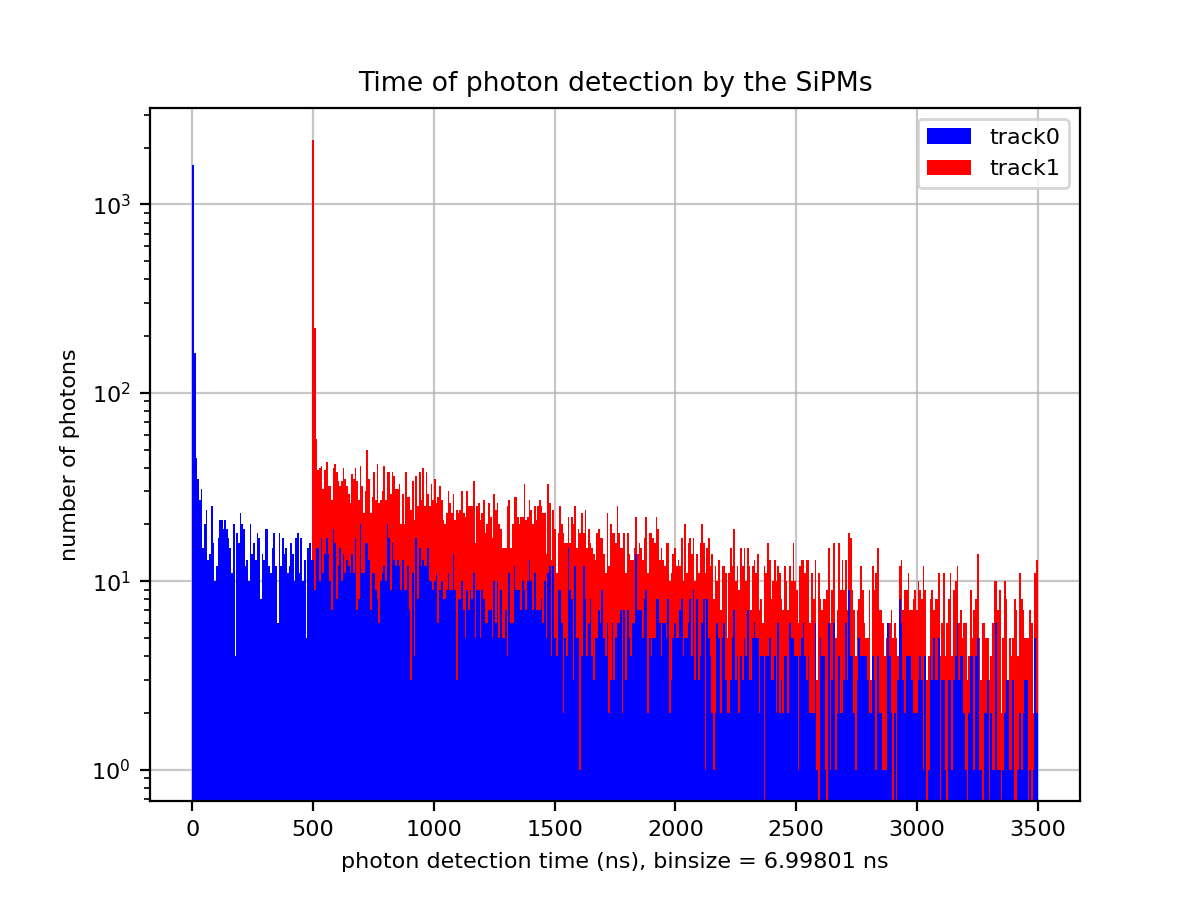
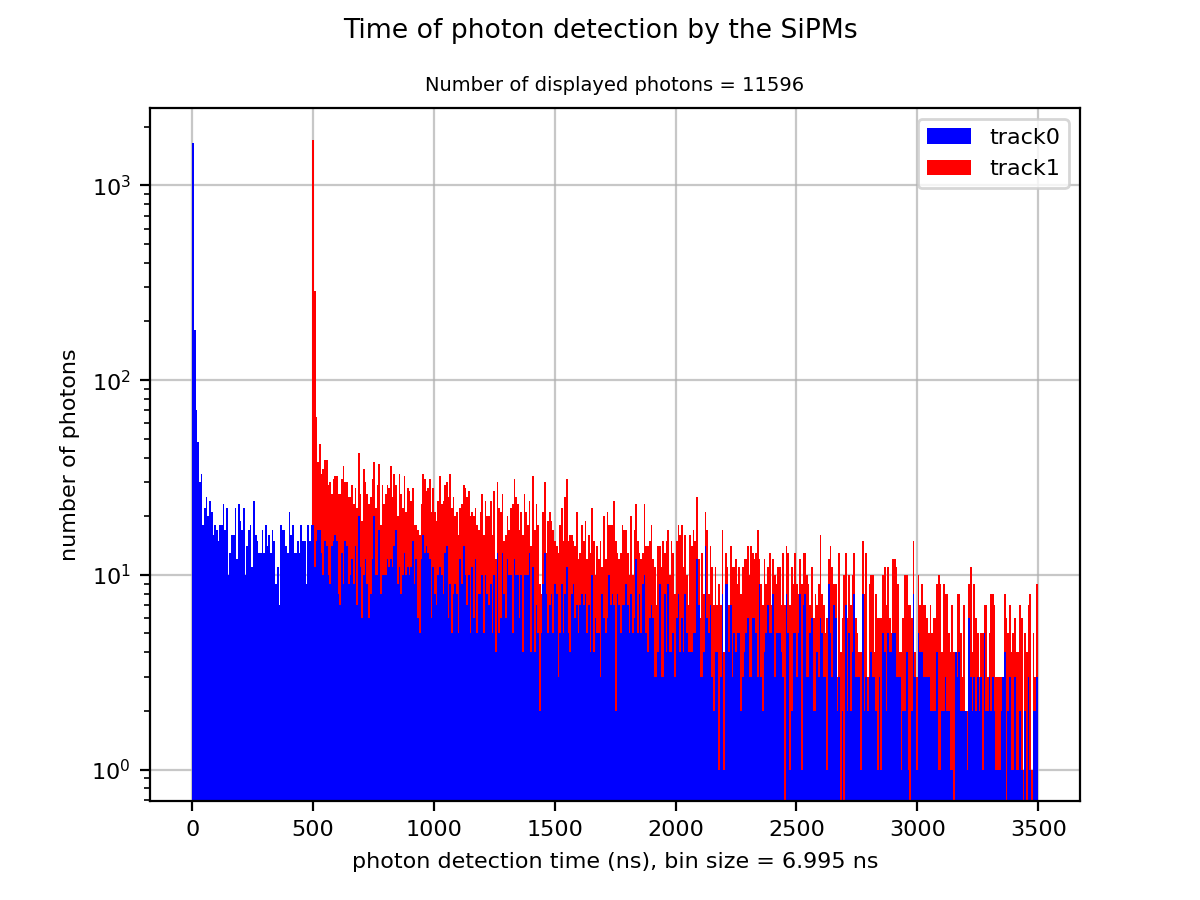
Add comment and additional outputs for timeplotter

diff --git a/TimePlotter.py b/TimePlotter.py
@@ -13,14 +13,17 @@ photonDex = 0
 numTracks = signals['trackorigins'][-1]
 numSignals = len(signals['photon'][0])
 histArray = []
-for i in range(numTracks+1):
-    tempArray = np.array([])
+numIncluded = 0
+for i in range(numTracks+1):     # Organize the data into an ndarray based on tracks
+    tempArray = np.array([])     # so it can be colored differently
     while photonDex < numSignals and signals['trackorigins'][photonDex] == i:
         if signals['time'][0][photonDex] <= pltLimit:
             tempArray = np.append(tempArray, signals['time'][0][photonDex]*1e9)
         photonDex += 1
     histArray.append(tempArray)
+    numIncluded += len(tempArray)
 
+# Plot settings #
 plt.rcParams.update({'font.size': 8})
 fig, ax = plt.subplots(dpi=200)
 fig.set_size_inches(6,4.5)
@@ -29,10 +32,13 @@ ax.grid(alpha=0.7)
 ax.set_axisbelow(True)
 ax.set_yscale('log')
 ax.set_ylabel('number of photons')
-ax.set_xlabel('photon detection time (ns), binsize = ' + str(round((bins[1]-bins[0]), 5)) + ' ns')
-ax.set_title('Time of photon detection by the SiPMs')
+ax.set_xlabel('photon detection time (ns), bin size = ' + str(round((bins[1]-bins[0]), 5)) + ' ns')
+plt.suptitle('Time of photon detection by the SiPMs')
+ax.set_title('Number of displayed photons = ' + str(numIncluded), fontsize=7)
 ax.legend(signals['tracknames'])
 
-print(len(signals['photon'][0]))
-print(stats['numphotons'])
+print('No. of photons that generated a signal: ' + str(len(signals['photon'][0])))
+print('No. of photons included in the histogram: ' + str(numIncluded))
+print('No. of photons omitted from the histogram: ' + str(len(signals['photon'][0])-numIncluded))
+print('Total no. of photons that were generated: ' + str(stats['numphotons']))
 plt.show()
